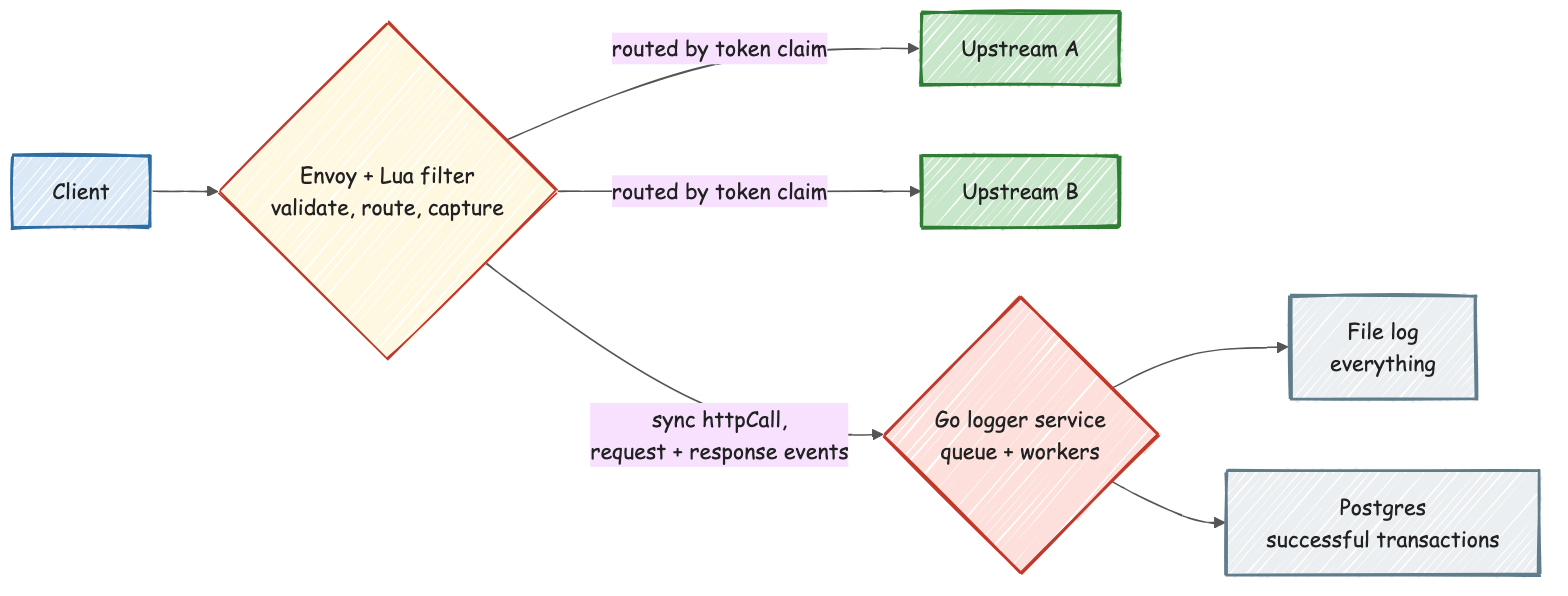
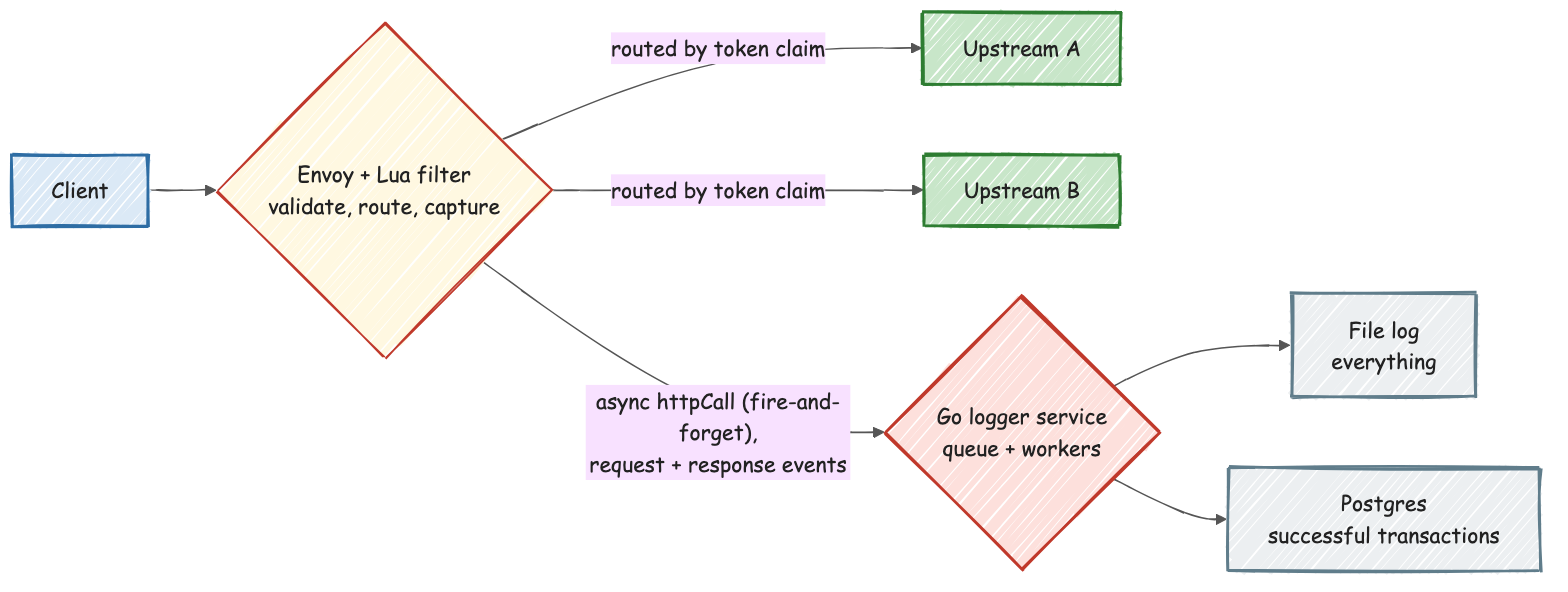
Correct the audit-logging article: the side-channel call should be async
The logger-service call's response callback doesn't gate any decision
in the request path, so blocking on it buys nothing functionally while
still importing the logging endpoint's latency and failure modes into
every proxied request. Reframe the synchronous-call section, the
Go-service transition, the mental model, and the lead diagram's label
to argue for fire-and-forget as the correct pattern, rather than
presenting the blocking call as a neutral trade-off.

diff --git a/articles/envoy-lua-audit-logging.md b/articles/envoy-lua-audit-logging.md
@@ -9,7 +9,7 @@ title: "Auditing AI API Traffic with Envoy, Lua, and a Go Logging Service"
 
 Say you're proxying traffic to a hosted AI coding-completion or chat API, and you need an audit trail — who called what, what did the model actually say, how long did it take — without touching the client or the upstream API itself. This is a pattern for doing exactly that with two small pieces: an [Envoy](https://www.envoyproxy.io/) proxy running a [Lua filter](https://www.envoyproxy.io/docs/envoy/latest/configuration/http/http_filters/lua_filter) to capture traffic at the point it already flows through, and a small Go service that turns those captures into durable, queryable records.
 
-![A client hitting an Envoy proxy with a Lua filter that validates, routes by token claim, and captures traffic; captures flow via a synchronous call to a Go logger service with its own queue, which writes everything to a file log and successful transactions to Postgres](../assets/diagrams/proxy-logging-overview.png)
+![A client hitting an Envoy proxy with a Lua filter that validates, routes by token claim, and captures traffic; captures flow via an async fire-and-forget call to a Go logger service with its own queue, which writes everything to a file log and successful transactions to Postgres](../assets/diagrams/proxy-logging-overview.png)
 
 ## Envoy as the capture point, not just a reverse proxy
 
@@ -23,11 +23,11 @@ The proxy already sits in the request path, which makes it the cheapest place to
 
 **Three numbers instead of one for latency.** The proxy measures wall-clock time from when it first saw the request to when the response headers came back — that's total round-trip time. Separately, the proxy's own instrumentation already knows how long the upstream itself took to respond. Subtracting the second from the first gives a third number: how much time the proxy and its own logging call added on top of the upstream's own latency. Publishing all three, instead of just "the request took N ms," is what lets a slow-request investigation actually point at the right layer instead of guessing.
 
-**The call to the logging service is synchronous, not fire-and-forget — and that's a deliberate trade-off worth naming.** The Lua filter's outbound call to the logging endpoint blocks within the filter chain, with a bounded timeout, rather than firing and forgetting. That buys a real guarantee — the proxy knows at request time whether the log call itself succeeded or failed — at a real cost: the logging endpoint's own latency briefly becomes part of every proxied request's latency. That trade-off only holds up if the logging endpoint is held to a strict, low, and reliable response-time bar — which is exactly what the next piece is designed around.
+**The call to the logging service should be async, fire-and-forget — and it's worth checking that it actually is.** The response callback for this call typically does nothing but log its own outcome for the proxy's own debugging; nothing about whether the client-facing request gets forwarded, modified, or rejected depends on it. When a side-channel call's result doesn't gate any decision the filter chain makes, there's no functional reason to let it block — doing so anyway just imports the logging endpoint's own latency, and worse, its own failure modes (a stalled connection, a slow response right up to the timeout), into every single proxied request, for a guarantee ("the proxy knows whether the log call succeeded") that nothing downstream actually uses. This is an easy mistake to make, because a blocking call is usually the first thing that works when you're standing the integration up — it only becomes a real problem once the logging endpoint has a bad moment under real traffic, and by then it's shipped. The fix is one boolean flag on the call; the lesson generalizes past this one integration: any side-channel call whose outcome isn't consumed by the request path should never be allowed to sit on that path.
 
 ## The Go service: decoupling capture from durable storage
 
-Because the proxy's call into it is synchronous, this service has one non-negotiable job: answer fast and reliably, no matter what's happening downstream. Everything about its internals follows from that constraint.
+Making the proxy's call async removes the *latency* coupling, but not the *data-loss* risk — a fire-and-forget call can still arrive at an ingestion endpoint that's momentarily overwhelmed, and losing audit events under load is its own failure mode even if it's not a user-facing one. So this service still has one non-negotiable job: absorb bursts without losing events, and do it without needing the proxy to wait around to find out whether it succeeded. Everything about its internals follows from that constraint.
 
 **A bounded queue with a worker pool, and an overflow path that never blocks the caller.** Incoming events go into a fixed-size queue; a small pool of workers drains it and does the actual (slower) work — parsing, sanitizing, writing to a file, writing to a database. If the queue is momentarily full, the event isn't dropped and the caller isn't blocked either — it's handed off to its own one-shot goroutine and processed immediately, outside the queue's ordering discipline. The trade-off under sustained overflow is more concurrent goroutines, not lost events and not backpressure on the proxy that's waiting synchronously on this exact call.
 
@@ -47,4 +47,4 @@ Because the proxy's call into it is synchronous, this service has one non-negoti
 
 ## Mental model
 
-> The proxy is the only place positioned to see everything without changing anything else, which makes it the right capture point — but a proxy that's slow because its logging call is slow defeats its own purpose. Splitting "capture" (fast, synchronous, minimal) from "durable storage" (queued, tiered, asynchronous where it can be) is what lets each half be simple: the proxy only has to answer "did the log call succeed," and the ingestion service only has to answer "can I absorb this without falling behind," and neither one has to solve the other's problem.
+> The proxy is the only place positioned to see everything without changing anything else, which makes it the right capture point — but a proxy that's slow because its logging call is slow defeats its own purpose. A side-channel call whose result doesn't gate the request should never be synchronous, no matter how fast the logging endpoint usually is — "usually fast" is not the same guarantee as "never on the critical path." Splitting "capture" (fire-and-forget, minimal) from "durable storage" (queued, tiered) is what lets each half be simple: the proxy fires the event and moves on, and the ingestion service only has to answer "can I absorb this without losing events," and neither one has to solve the other's problem.
